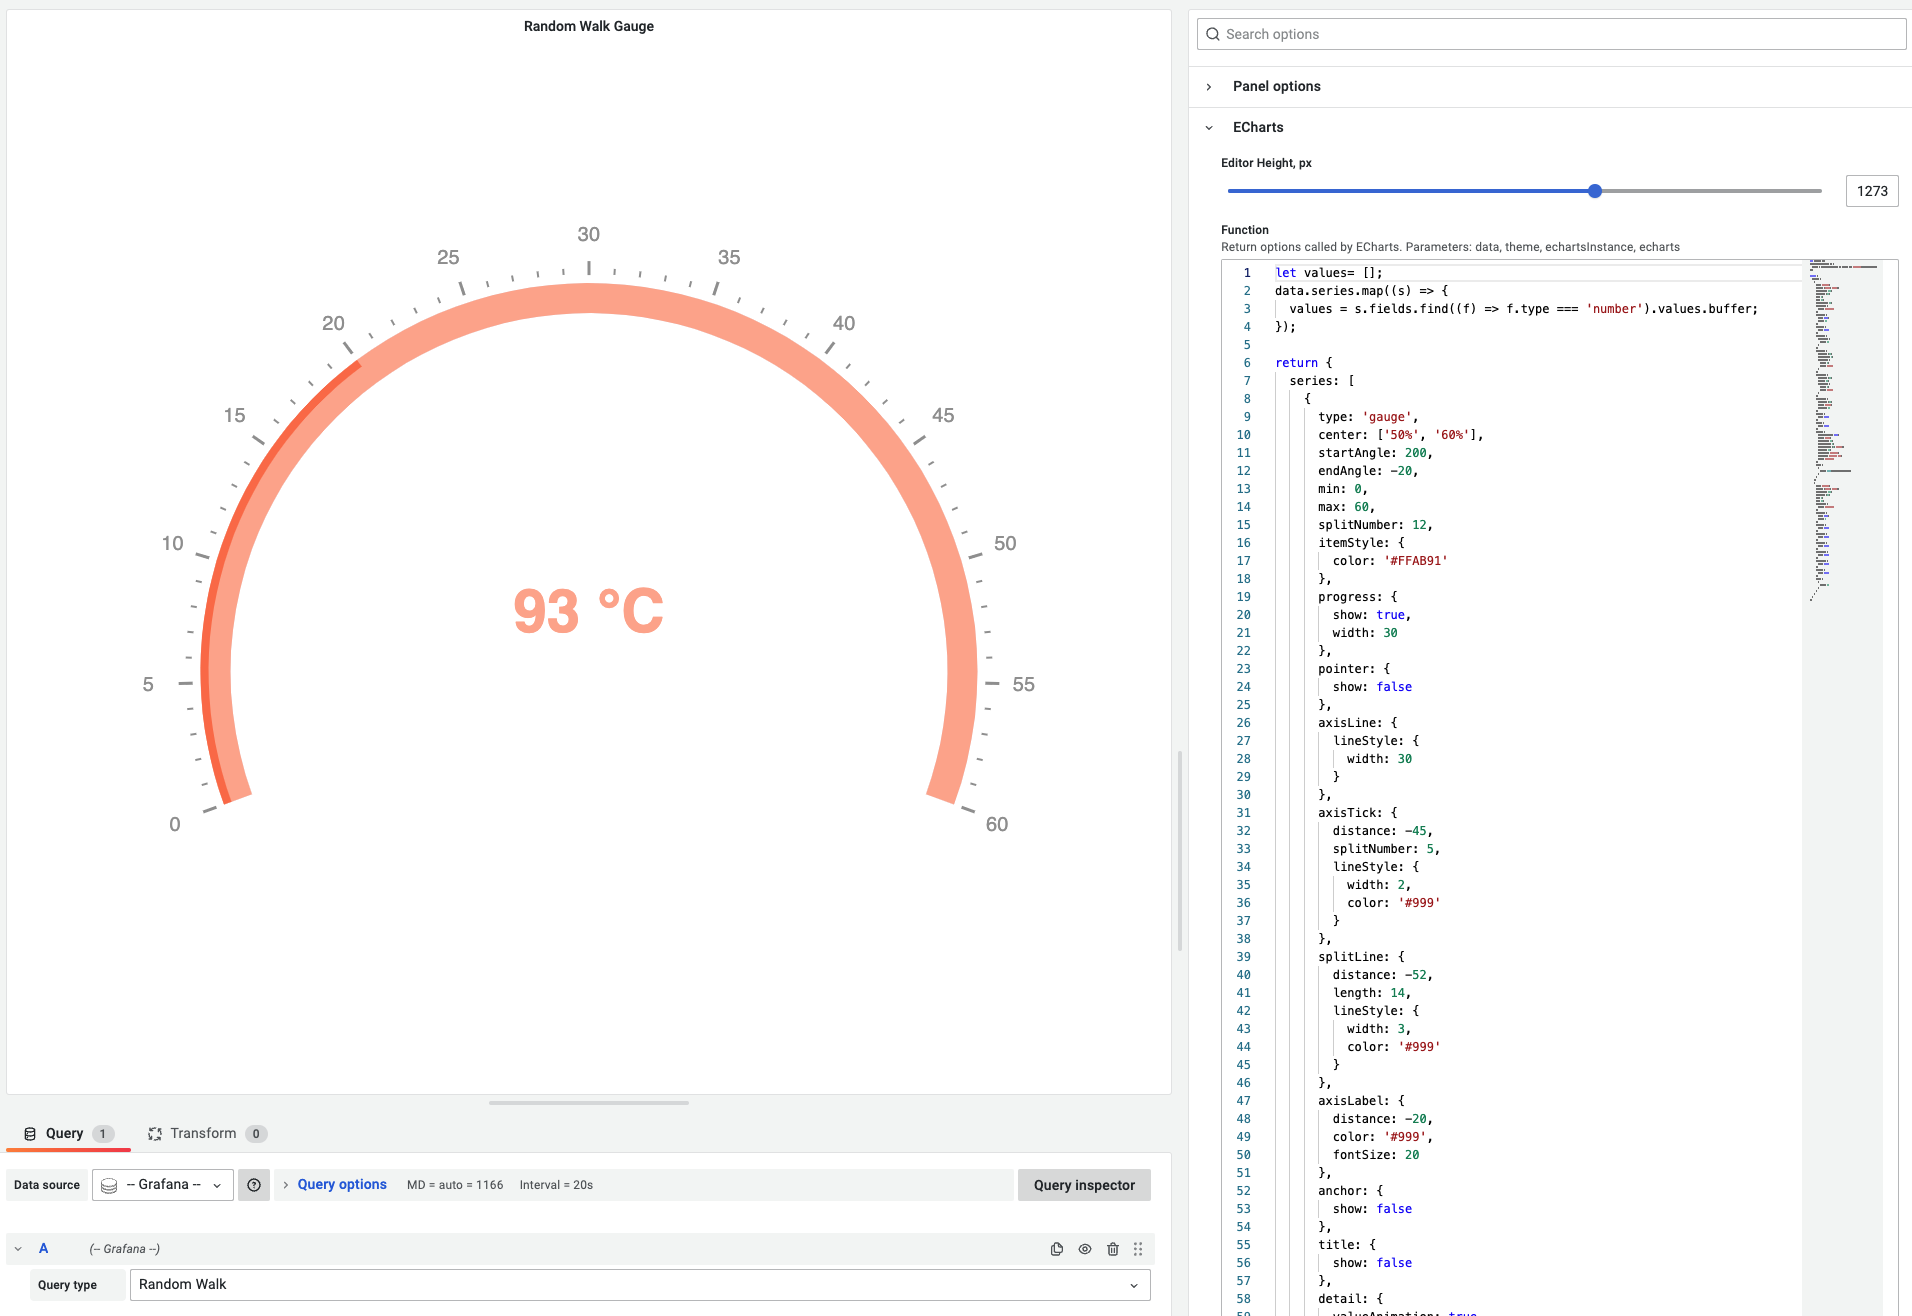
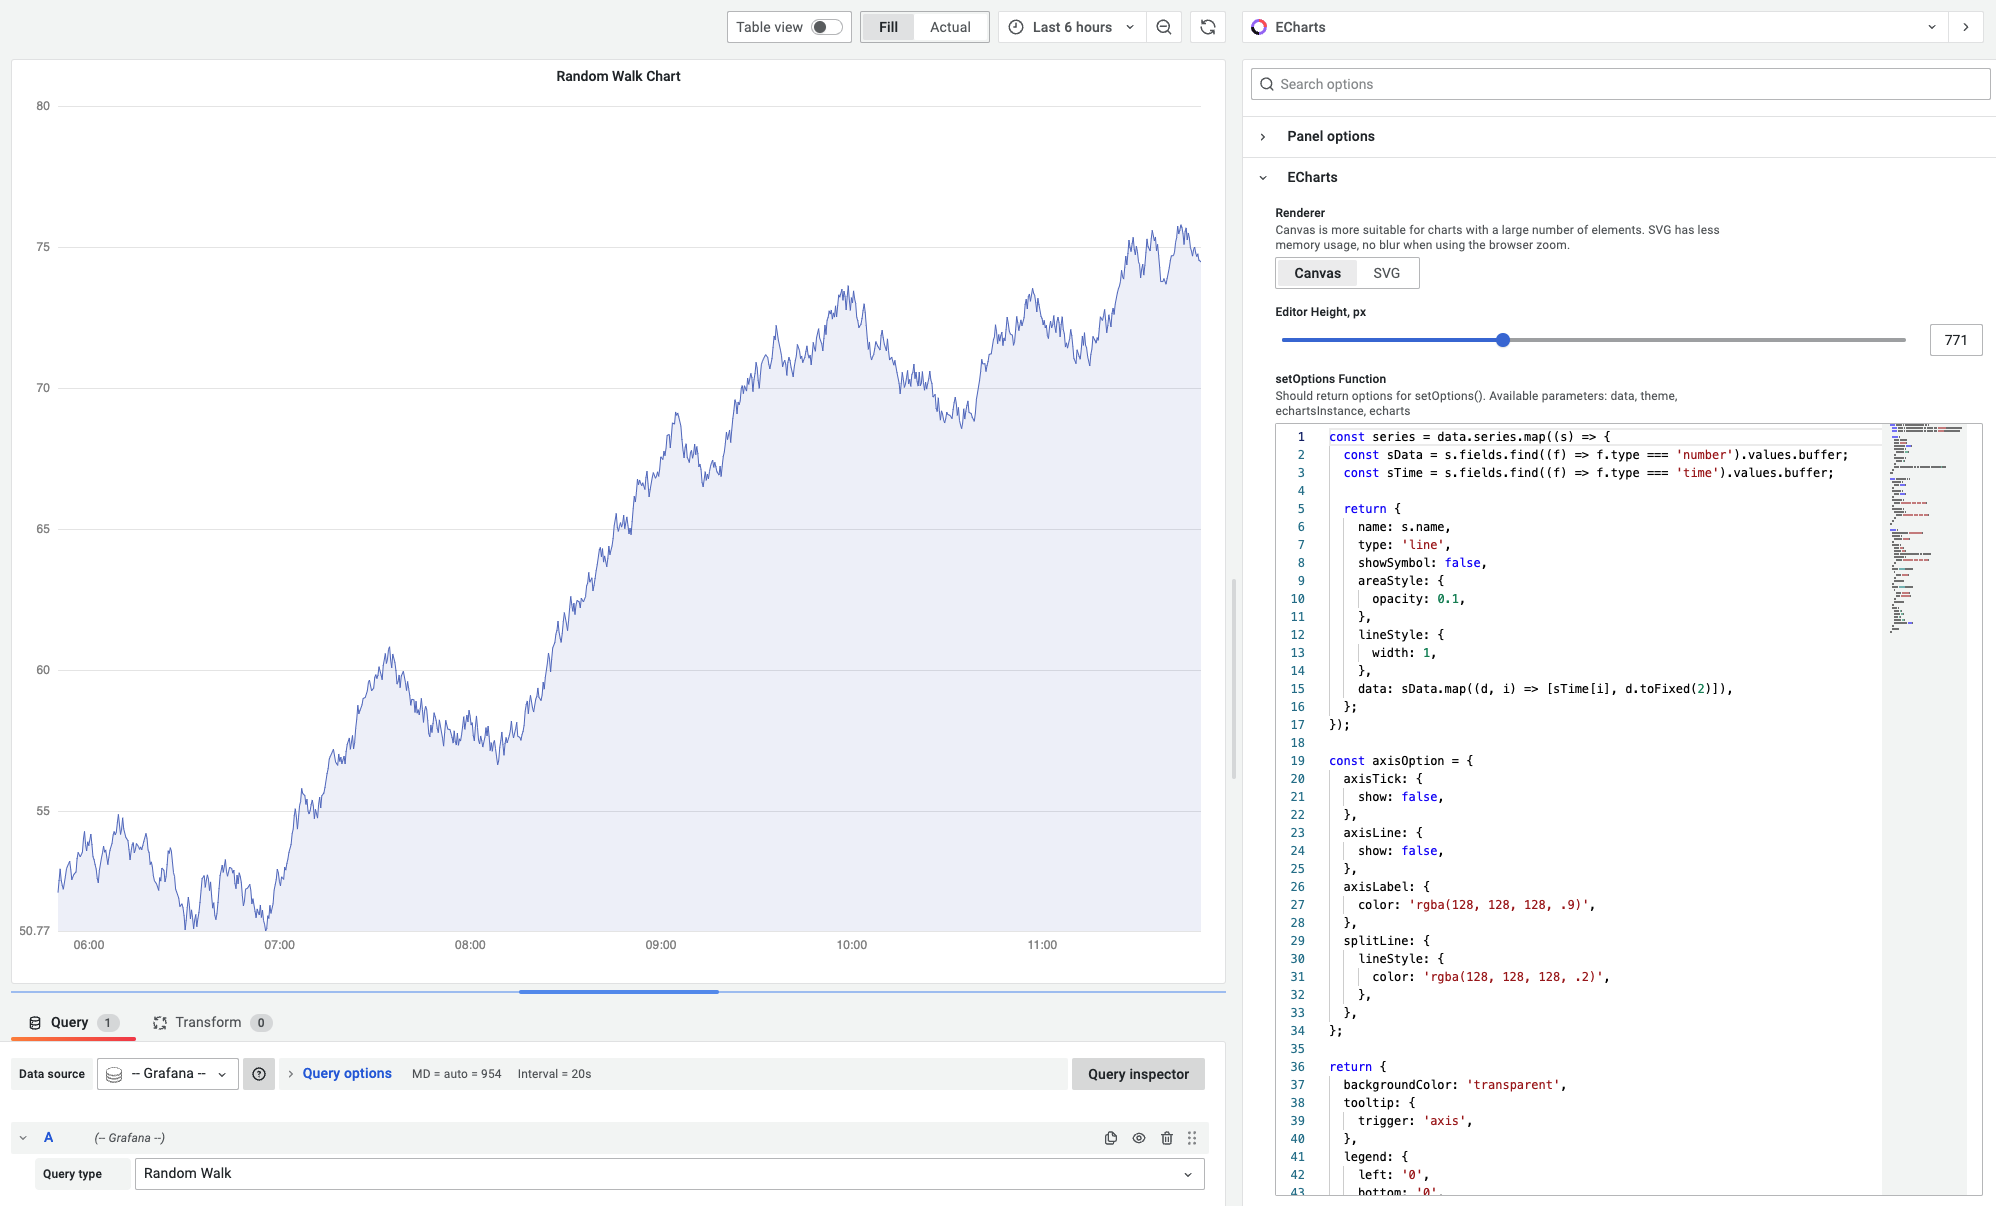
Add setOption() description in README And Options (#12)
* Add setOption() description in README And Options

* Fix README

diff --git a/src/module.tsx b/src/module.tsx
@@ -30,8 +30,9 @@ export const plugin = new PanelPlugin<PanelOptions>(EChartsPanel).setPanelOption
     .addCustomEditor({
       id: 'getOption',
       path: 'getOption',
-      name: 'Function',
-      description: 'Return options called by ECharts. Parameters: data, theme, echartsInstance, echarts',
+      name: 'setOptions Function',
+      description:
+        'Should return options for setOptions(). Available parameters: data, theme, echartsInstance, echarts',
       defaultValue: DefaultOptions.getOption,
       editor: EChartsEditor,
     });

diff --git a/README.md b/README.md
@@ -1,4 +1,4 @@
-# ECharts Panel plugin for Grafana
+# Apache ECharts Panel plugin for Grafana
 
 ![Echarts](https://github.com/VolkovLabs/volkovlabs-echarts-panel/raw/main/src/img/dashboard.png)
 
@@ -28,8 +28,28 @@ grafana-cli --repo https://volkovlabs.io/plugins plugins install volkovlabs-echa
 ## Features
 
 - Allows to visualize Apache ECharts using Monaco Code Editor.
+- Use setOption() function to set configuration and data.
+- Based on the ECharts 5.3.3.
 - Supports Light and Dark mode synchronized with Grafana Theme.
 - Supports SVG and Canvas renderer.
+
+## setOption() Function
+
+Configuration item, data, universal interface, all parameters and data can all be modified through setOption() function in the plugin's options.
+Available Parameters:
+
+- `data` - Grafana's `data` object.
+- `theme` - Grafana's `theme` object.
+- `echartsInstance` - Instance of the Echarts.
+- `echarts` - Echarts library.
+
+![Panel](https://github.com/VolkovLabs/volkovlabs-echarts-panel/raw/main/src/img/panel.png)
+
+To learn more about parameters you can log them in the Browser Console:
+
+```javascript
+console.log(data, theme, echartsInstance, echarts);
+```
 
 ## Feedback
 

diff --git a/CHANGELOG.md b/CHANGELOG.md
@@ -1,5 +1,11 @@
 # Change Log
 
+## 3.1.0 (IN PROGRESS)
+
+### Features / Enhancements
+
+- Add setOption() description in README And Options (#12)
+
 ## 3.0.0 (2022-06-19)
 
 ### Breaking changes
